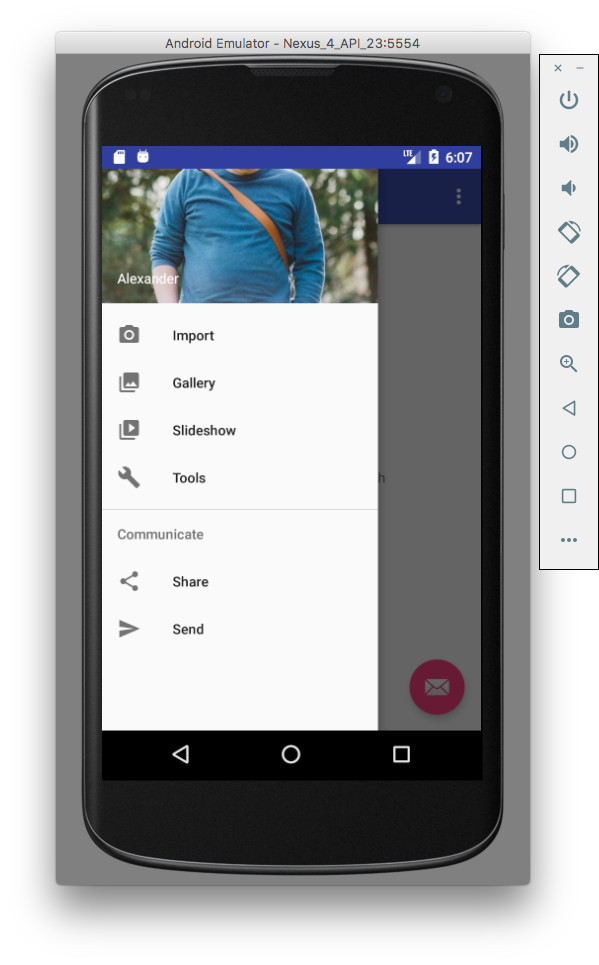
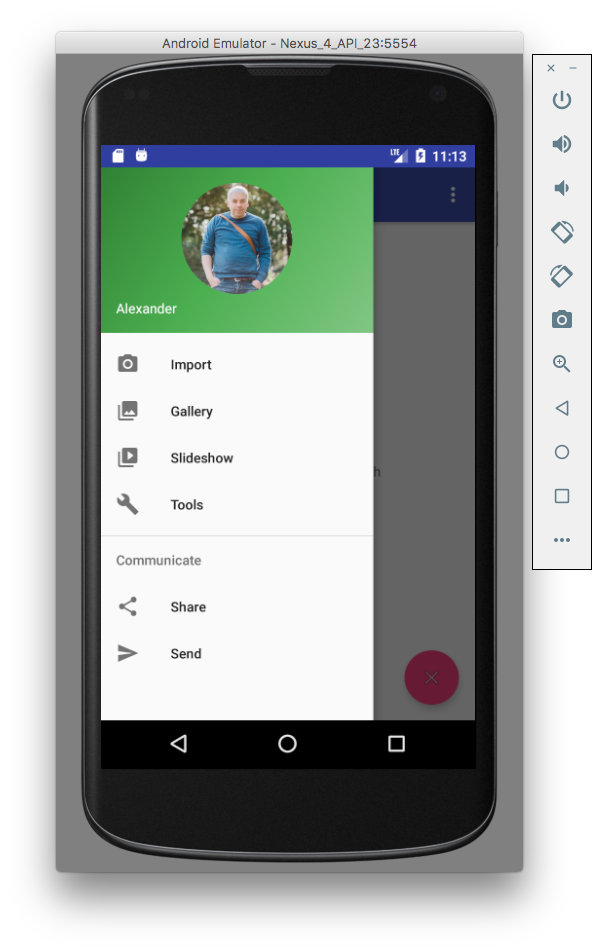
Use rounded photo. Try to delete all records on FAB click (does not work)

diff --git a/GoogleAuth/app/src/main/java/de/afarber/googleauth/MainActivity.java b/GoogleAuth/app/src/main/java/de/afarber/googleauth/MainActivity.java
@@ -24,6 +24,7 @@ import android.widget.ImageView;
 import android.widget.TextView;
 
 import com.bumptech.glide.Glide;
+import com.bumptech.glide.request.RequestOptions;
 import com.google.android.gms.auth.api.Auth;
 import com.google.android.gms.auth.api.signin.GoogleSignInAccount;
 import com.google.android.gms.auth.api.signin.GoogleSignInOptions;
@@ -31,6 +32,7 @@ import com.google.android.gms.auth.api.signin.GoogleSignInResult;
 import com.google.android.gms.common.ConnectionResult;
 import com.google.android.gms.common.api.GoogleApiClient;
 
+import static de.afarber.googleauth.DatabaseService.ACTION_GOOGLE_USER_EXISTS;
 import static de.afarber.googleauth.DatabaseService.ACTION_GOOGLE_USER_MISSING;
 import static de.afarber.googleauth.DatabaseService.ACTION_NEWEST_USER_DATA;
 import static de.afarber.googleauth.DatabaseService.EXTRA_USER;
@@ -44,6 +46,7 @@ public class MainActivity extends AppCompatActivity
     private static final String TAG = MainActivity.class.getSimpleName();
     private static final int GOOGLE_SIGNIN = 1972;
 
+    private RequestOptions mGlideOptions;
     private IntentFilter mFilter;
     private LocalBroadcastManager mBroadcastManager;
     private GoogleApiClient mGoogleApiClient;
@@ -65,6 +68,8 @@ public class MainActivity extends AppCompatActivity
             if (ACTION_GOOGLE_USER_MISSING.equals(action)) {
                 Intent signInIntent = Auth.GoogleSignInApi.getSignInIntent(mGoogleApiClient);
                 startActivityForResult(signInIntent, GOOGLE_SIGNIN);
+            } else if (ACTION_GOOGLE_USER_EXISTS.equals(action)) {
+                DatabaseService.findNewestUser(MainActivity.this);
             } else if (ACTION_NEWEST_USER_DATA.equals(action)) {
                 User user = i.getParcelableExtra(EXTRA_USER);
                 Log.d(TAG, user.toString());
@@ -72,7 +77,7 @@ public class MainActivity extends AppCompatActivity
                 if (URLUtil.isNetworkUrl(user.photo)) {
                     Glide.with(MainActivity.this)
                         .load(user.photo)
-                        .centerCrop()
+                        .apply(mGlideOptions)
                         .into(mPhotoView);
                 }
             }
@@ -83,20 +88,24 @@ public class MainActivity extends AppCompatActivity
     protected void onCreate(Bundle savedInstanceState) {
         super.onCreate(savedInstanceState);
 
+        mGlideOptions = new RequestOptions();
+        mGlideOptions.circleCrop();
+
         mBroadcastManager = LocalBroadcastManager.getInstance(this);
 
         mFilter = new IntentFilter();
         mFilter.addAction(ACTION_GOOGLE_USER_MISSING);
+        mFilter.addAction(ACTION_GOOGLE_USER_EXISTS);
         mFilter.addAction(ACTION_NEWEST_USER_DATA);
 
         GoogleSignInOptions gso = new GoogleSignInOptions.Builder(GoogleSignInOptions.DEFAULT_SIGN_IN)
-                .requestEmail()
-                .build();
+            .requestEmail()
+            .build();
 
         mGoogleApiClient = new GoogleApiClient.Builder(this)
-                .enableAutoManage(this /* FragmentActivity */, this /* OnConnectionFailedListener */)
-                .addApi(Auth.GOOGLE_SIGN_IN_API, gso)
-                .build();
+            .enableAutoManage(this /* FragmentActivity */, this /* OnConnectionFailedListener */)
+            .addApi(Auth.GOOGLE_SIGN_IN_API, gso)
+            .build();
 
         setContentView(R.layout.activity_main);
         mFab = (FloatingActionButton) findViewById(R.id.fab);
@@ -113,13 +122,21 @@ public class MainActivity extends AppCompatActivity
         mFab.setOnClickListener(new View.OnClickListener() {
             @Override
             public void onClick(View view) {
-                Snackbar.make(view, "Replace with your own action", Snackbar.LENGTH_LONG)
+                Snackbar.make(view, "Delete all database records",
+                        Snackbar.LENGTH_LONG)
                         .setAction("Action", null).show();
+
+                DatabaseService.deleteAll(MainActivity.this);
             }
         });
 
         ActionBarDrawerToggle toggle = new ActionBarDrawerToggle(
-                this, mDrawer, mToolbar, R.string.navigation_drawer_open, R.string.navigation_drawer_close);
+            this,
+            mDrawer,
+            mToolbar,
+            R.string.navigation_drawer_open,
+            R.string.navigation_drawer_close
+        );
         mDrawer.setDrawerListener(toggle);
         toggle.syncState();
 
@@ -131,7 +148,6 @@ public class MainActivity extends AppCompatActivity
         super.onResume();
         mBroadcastManager.registerReceiver(mMessageReceiver, mFilter);
         DatabaseService.findGoogleUser(this);
-        DatabaseService.findNewestUser(this);
     }
 
     @Override
@@ -225,11 +241,6 @@ public class MainActivity extends AppCompatActivity
     }
 
 /*
-    private void signIn() {
-        Intent signInIntent = Auth.GoogleSignInApi.getSignInIntent(mGoogleApiClient);
-        startActivityForResult(signInIntent, GOOGLE_SIGNIN);
-    }
-
     private void signOut() {
         Auth.GoogleSignInApi.signOut(mGoogleApiClient).setResultCallback(
                 new ResultCallback<Status>() {
@@ -253,8 +264,7 @@ public class MainActivity extends AppCompatActivity
 
     @Override
     public void onConnectionFailed(ConnectionResult connectionResult) {
-        // An unresolvable error has occurred and Google APIs (including Sign-In) will not
-        // be available.
+        // An unresolvable error has occurred and Google Sign-In will not be available.
         Log.d(TAG, "onConnectionFailed:" + connectionResult);
     }
 }

diff --git a/GoogleAuth/app/src/main/java/de/afarber/googleauth/DatabaseHelper.java b/GoogleAuth/app/src/main/java/de/afarber/googleauth/DatabaseHelper.java
@@ -4,12 +4,15 @@ import android.content.ContentValues;
 import android.content.Context;
 import android.database.Cursor;
 import android.database.sqlite.SQLiteDatabase;
+import android.util.Log;
 
 import com.readystatesoftware.sqliteasset.SQLiteAssetHelper;
 
 import static de.afarber.googleauth.User.GOOGLE;
 
 public class DatabaseHelper extends SQLiteAssetHelper {
+    private static final String TAG = DatabaseHelper.class.getSimpleName();
+
     private static final int DATABASE_VERSION   = 3;
     private static final String DATABASE_NAME   = "social.db";
     private static final String TABLE_SOCIAL    = "social";
@@ -66,21 +69,6 @@ public class DatabaseHelper extends SQLiteAssetHelper {
         return findUser(GOOGLE);
     }
 
-    /*
-
-        public Cursor query(String table,
-        String[] columns,
-
-        String selection,
-            String[] selectionArgs,
-            String groupBy,
-
-            String having,
-
-            String orderBy, String limit) {
-
-     */
-
     public User findNewestUser() {
         try (
             Cursor cursor = getReadableDatabase().query(TABLE_SOCIAL,
@@ -114,5 +102,10 @@ public class DatabaseHelper extends SQLiteAssetHelper {
         cv.put(COLUMN_LNG, user.lng);
         //cv.put(COLUMN_STAMP, (int) (System.currentTimeMillis() / 1000));
         getWritableDatabase().insert(TABLE_SOCIAL, null, cv);
+    }
+
+    public void deleteAll() {
+        int count = getWritableDatabase().delete(TABLE_SOCIAL, "1", null);
+        Log.d(TAG, "deleted rows: " + count);
     }
 }

diff --git a/GoogleAuth/app/src/main/java/de/afarber/googleauth/DatabaseService.java b/GoogleAuth/app/src/main/java/de/afarber/googleauth/DatabaseService.java
@@ -15,6 +15,8 @@ public class DatabaseService extends IntentService {
     public static final String ACTION_FIND_NEWEST_USER = "de.afarber.action.find.newest.user";
     public static final String ACTION_NEWEST_USER_DATA = "de.afarber.action.newest.user.data";
 
+    public static final String ACTION_DELETE_ALL = "de.afarber.delete.all";
+
     public static final String ACTION_UPDATE_USER = "de.afarber.action.update.user";
     public static final String EXTRA_USER = "de.afarber.extra.user";
 
@@ -40,6 +42,12 @@ public class DatabaseService extends IntentService {
         context.startService(i);
     }
 
+    public static void deleteAll(Context context) {
+        Intent i = new Intent(context, DatabaseService.class);
+        i.setAction(ACTION_DELETE_ALL);
+        context.startService(i);
+    }
+
     public DatabaseService() {
         super(TAG);
     }
@@ -60,6 +68,8 @@ public class DatabaseService extends IntentService {
         } else if (ACTION_UPDATE_USER.equals(action)) {
             User user = i.getParcelableExtra(EXTRA_USER);
             handleUpdateUser(user);
+        } else if (ACTION_DELETE_ALL.equals(action)) {
+            handleDeleteAll();
         }
     }
 
@@ -84,5 +94,9 @@ public class DatabaseService extends IntentService {
 
     private void handleUpdateUser(User user) {
         mDatabaseHelper.updateUser(user);
+    }
+
+    private void handleDeleteAll() {
+        mDatabaseHelper.deleteAll();
     }
 }
